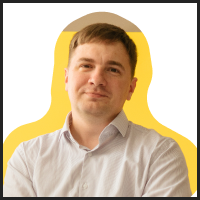
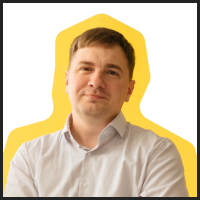
new photo

diff --git a/src/html/blocks/aboutus/aboutus-promo-slider.html b/src/html/blocks/aboutus/aboutus-promo-slider.html
@@ -37,7 +37,7 @@
                             <img class="AboutUs-promo__slider-img AboutUs-promo__slider-img-Ksysha" src="img/img1/AboutUs-promo-slider__Ksysha.png" alt="Фотография Ксении Бойко">
                             <div class="AboutUs-promo__slider-descr AboutUs-promo__slider-descr-Ksysha">
                                 <h2 class="AboutUs-promo__slider-name">Ксения Бойко</h2>
-                                <div class="AboutUs-promo__slider-proffession subtitle24">РОП</div>
+                                <div class="AboutUs-promo__slider-proffession subtitle24">Проектный менеджер</div>
                                 <div class="AboutUs-promo__slider-quote aboutUs__caption16 caption16">
                                     Скрипт, лиды, холодные звонки. <br> 
                                     ТЗ, воронки, энтерпрайз. <br>
@@ -62,7 +62,7 @@
                             <img class="AboutUs-promo__slider-img AboutUs-promo__slider-img-Egor" src="img/img1/AboutUs-promo-slider__Egor.png" alt="Фотография Егора Соколова">
                             <div class="AboutUs-promo__slider-descr AboutUs-promo__slider-descr-Egor">
                                 <h2 class="AboutUs-promo__slider-name">Егор Соколов</h2>
-                                <div class="AboutUs-promo__slider-proffession subtitle24">Frontend-разработчик</div>
+                                <div class="AboutUs-promo__slider-proffession subtitle24">Web-интегратор</div>
                                 <div class="AboutUs-promo__slider-quote aboutUs__caption16 caption16">
                                     Секрет неуклонного движения вперед в&nbsp;том, чтобы сделать первый шаг.
                                 </div>

diff --git a/src/scss/blocks/aboutus/_aboutus-promo-slider.scss b/src/scss/blocks/aboutus/_aboutus-promo-slider.scss
@@ -49,6 +49,7 @@
 
 .slide__AboutUs__Daniil img {
     margin-left: 30px;
+    margin-bottom: -2px;
 }
 
 .slide__AboutUs__Kostya img {
@@ -67,6 +68,7 @@
 
 .slide__AboutUs__Egor img {
     margin-left: 46px;
+    margin-right: -40px;
 }
 
 .slide__AboutUs__NastyaM img {
@@ -92,7 +94,7 @@
 }
 
 .AboutUs-promo__slider-descr-Egor {
-    margin-top: 138px;
+    margin-top: 182px;
 }
 
 .AboutUs-promo__slider-descr-NastyaM {
@@ -353,9 +355,9 @@
     .slide__AboutUs__Ksysha img {
         width: auto;
         margin-left: 39px;
-        margin-top: 63px;
+        margin-top: 100px;
         margin-right: 13px;
-        height: 306px;
+        height: 271px;
     }
     .slide__AboutUs__NastyaD img {
         width: auto;
@@ -393,7 +395,7 @@
         margin-top: 88px;
     }
     .AboutUs-promo__slider-descr-Ksysha {
-        margin-top: 103px;
+        margin-top: 30px;
     }
     .AboutUs-promo__slider-descr-Kostya {
         margin-top: 45px;
@@ -501,19 +503,19 @@
         height: auto;
     }
     .slide__AboutUs__Egor img {
-        margin: 166px 0 0;
-        transform: scale(0.8);
+        margin: 151px 0 0;
+        transform: scale(0.9);
     }
     .slide__AboutUs__NastyaM img {
-        margin: 172px 0 0;
-        transform: scale(0.75);
+        margin: 172px 6px 0;
+        transform: scale(0.8);
     }
     .AboutUs-promo__slider-descr-Daniil {
         margin-top: -431px;
         margin-left: 20px;
     }
     .AboutUs-promo__slider-descr-Egor {
-        margin-top: -442px;
+        margin-top: -429px;
         margin-left: 20px;
     }
     .AboutUs-promo__slider-descr-NastyaM {
@@ -525,7 +527,7 @@
         margin-left: 20px;
     }
     .AboutUs-promo__slider-descr-Ksysha {
-        margin-top: -434px;
+        margin-top: -445px;
         margin-left: 20px;
     }
     .AboutUs-promo__slider-descr-Kostya {

diff --git a/src/html/blocks/index/index-team.html b/src/html/blocks/index/index-team.html
@@ -25,7 +25,7 @@
                 </div>
                 <div class="swiper-slide descr-team descr-Egor" name="#team-Egor">
                     <h2 class="team__name">Егор <br>Соколов</h2> 
-                    <div class="team__profession">Frontend-разработчик</div>
+                    <div class="team__profession">Web-интегратор</div>
                     <img class="swiper__team__img" src="img/img1/team_Egor.png" alt="Фотография Егора Соколова">
                 </div>
                 <div class="swiper-slide descr-team descr-NastyaD" name="#team-NastyaD">

diff --git a/src/html/cases.html b/src/html/cases.html
@@ -5,7 +5,7 @@
 		<meta http-equiv="X-UA-Compatible" content="IE=edge" />
 		<meta name="viewport" content="width=device-width, initial-scale=1.0" />
 		<title>Автор IT</title>
-		<link rel="icon" href="img/icon1/footer-logo.svg">
+		<link rel="icon" href="img/icon1/footer-logo.svg" class="site-icon">
 		<link rel="preconnect" href="https://fonts.googleapis.com">
 		<link rel="preconnect" href="https://fonts.gstatic.com" crossorigin>
 		<link href="https://fonts.googleapis.com/css2?family=Open+Sans:wght@400;700&display=swap" rel="stylesheet">

diff --git a/src/html/services.html b/src/html/services.html
@@ -5,7 +5,7 @@
 		<meta http-equiv="X-UA-Compatible" content="IE=edge" />
 		<meta name="viewport" content="width=device-width, initial-scale=1.0" />
 		<title>Автор IT</title>
-		<link rel="icon" href="img/icon1/footer-logo.svg">
+		<link rel="icon" href="img/icon1/footer-logo.svg" class="site-icon">
 		<link rel="preconnect" href="https://fonts.googleapis.com">
 		<link rel="preconnect" href="https://fonts.gstatic.com" crossorigin>
 		<link href="https://fonts.googleapis.com/css2?family=Open+Sans:wght@400;700&display=swap" rel="stylesheet">

diff --git a/src/html/aboutus.html b/src/html/aboutus.html
@@ -5,7 +5,7 @@
 		<meta http-equiv="X-UA-Compatible" content="IE=edge" />
 		<meta name="viewport" content="width=device-width, initial-scale=1.0" />
 		<title>Автор IT</title>
-		<link rel="icon" href="img/icon1/footer-logo.svg">
+		<link rel="icon" href="img/icon1/footer-logo.svg" class="site-icon">
 		<link rel="stylesheet" href="https://cdn.jsdelivr.net/npm/swiper@10/swiper-bundle.min.css">
 		<link rel="preconnect" href="https://fonts.googleapis.com">
 		<link rel="preconnect" href="https://fonts.gstatic.com" crossorigin>

diff --git a/src/html/bitrix.html b/src/html/bitrix.html
@@ -5,7 +5,7 @@
 		<meta http-equiv="X-UA-Compatible" content="IE=edge" />
 		<meta name="viewport" content="width=device-width, initial-scale=1.0" />
 		<title>Автор IT</title>
-		<link rel="icon" href="img/icon1/footer-logo.svg">
+		<link rel="icon" href="img/icon1/footer-logo.svg" class="site-icon">
 		<link rel="stylesheet" href="https://cdn.jsdelivr.net/npm/swiper@10/swiper-bundle.min.css">
 		<link rel="preconnect" href="https://fonts.googleapis.com">
 		<link rel="preconnect" href="https://fonts.gstatic.com" crossorigin>

diff --git a/src/html/index.html b/src/html/index.html
@@ -5,7 +5,7 @@
 		<meta http-equiv="X-UA-Compatible" content="IE=edge" />
 		<meta name="viewport" content="width=device-width, initial-scale=1.0" />
 		<title>Автор IT</title>
-		<link rel="icon" href="img/icon1/footer-logo.svg">
+		<link rel="icon" href="img/icon1/footer-logo.svg" class="site-icon">
 		<link rel="stylesheet" href="https://cdn.jsdelivr.net/npm/swiper@10/swiper-bundle.min.css">
 		<link rel="preconnect" href="https://fonts.googleapis.com">
 		<link rel="preconnect" href="https://fonts.gstatic.com" crossorigin>

diff --git a/src/js/modules/icon.js b/src/js/modules/icon.js
@@ -1,6 +1,6 @@
 function icon() {
     if (window.matchMedia('(prefers-color-scheme: light)').matches) {
-        document.querySelector('.site-icon').href = './img/icon1/icon-dark.svg';
+        document.querySelector('.site-icon').href = '../img/icon1/icon-dark.svg';
     }
 }
 
